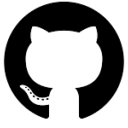
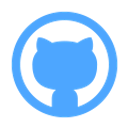
infine finished

diff --git a/css/infine.css b/css/infine.css
@@ -1,3 +1,105 @@
-body{
-    background: red;
+/** --- header --- **/
+
+.header{
+    color: #535a60 !important;
+    background-color: #FAFAFB !important;
+    box-shadow: 0 1px 0 rgba(12,13,14,0.15);
 }
+
+.header-logo-invertocat{
+    color: #0095ff !important;
+}
+
+.header-logo-invertocat:hover{
+    color: #07c !important;
+}
+
+.header .header-search-wrapper{
+    background-color: #fff !important;
+    color: #6a737c !important;
+    border: 1px solid #c8ccd0 !important;
+    box-shadow: inset 0 0 1px rgba(145,153,161,0.2), 0 0 0 rgba(255,255,255,0) !important;
+}
+
+.header .header-search-input::-webkit-input-placeholder {
+    /* Chrome/Opera/Safari */
+    color: #848d95 !important;
+}
+.header .header-search-input::-moz-placeholder {
+    /* Firefox 19+ */
+    color: #848d95 !important;
+}
+.header .header-search-input:-ms-input-placeholder {
+    /* IE 10+ */
+    color: #848d95 !important;
+}
+.header .header-search-input:-moz-placeholder {
+    /* Firefox 18- */
+    color: #848d95 !important;
+}
+
+.header-nav-link{
+    color: #535a60 !important;
+}
+
+.header-nav-link:hover{
+    color: #242729 !important;
+}
+
+.header-nav-link:hover .dropdown-caret{
+    border-top-color: #242729 !important;
+}
+
+.dropdown-item:hover{
+    background-color: #0095FF !important;
+}
+
+.notification-indicator:hover .mail-status{
+    background-color: #0095FF !important;
+}
+
+.notification-indicator .mail-status{
+    border: 2px solid transparent !important;
+}
+
+.header .header-search-scope{
+    color: #586069 !important;
+    border-right-color: #ccc !important;
+}
+
+/** --- header --- **/
+
+/** --- repo --- **/
+.mini-repo-list-item .repo,strong,
+.markdown-body h1, .markdown-body h2,
+.markdown-body h3, .markdown-body h4,
+.markdown-body h5, .markdown-body h6{
+    font-weight: 400 !important;
+}
+
+/** --- repo --- **/
+
+/** --- pinned repo --- **/
+
+.js-pinned-repos-reorder-container .text-bold  {
+    font-weight: 400 !important;
+}
+
+/** --- pinned repo --- **/
+
+/** --- user's repos --- **/
+
+.user-repositories-list h3{
+    font-weight: 400 !important;
+}
+
+/** --- user's repos --- **/
+
+/** --- user's star repos --- **/
+
+.d-inline-block h3{
+    font-weight: 400 !important;
+}
+
+/** --- user's star repos --- **/
+
